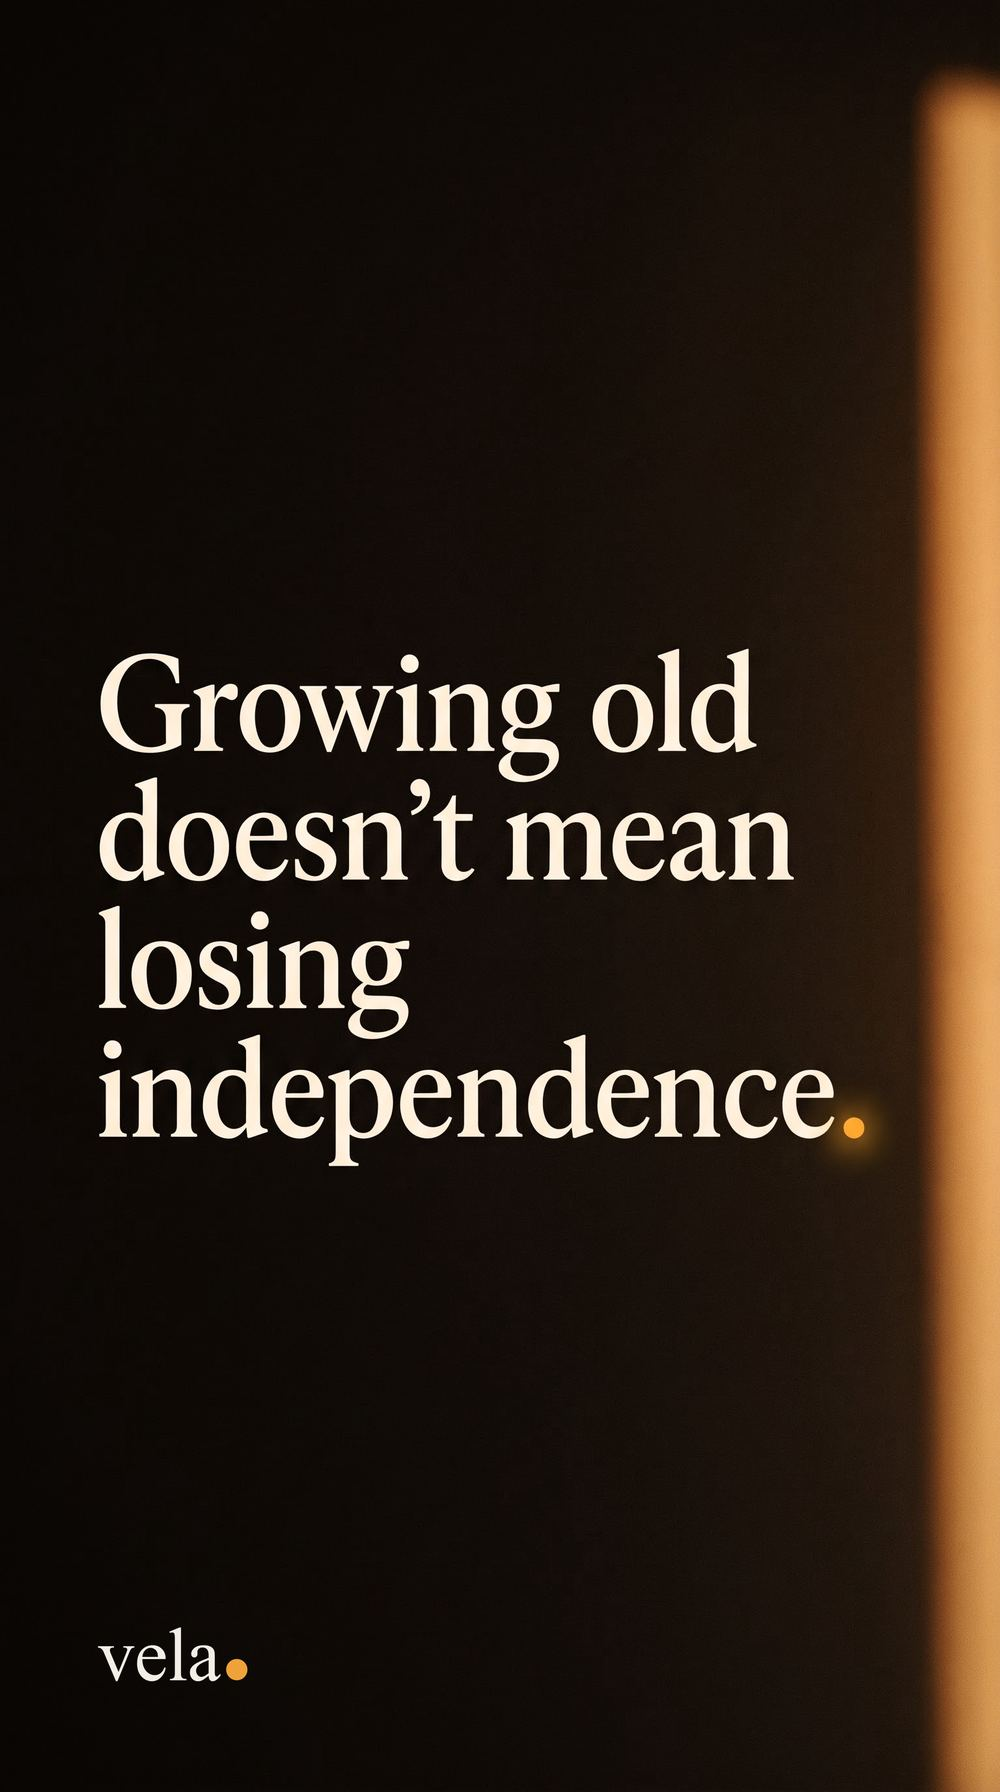
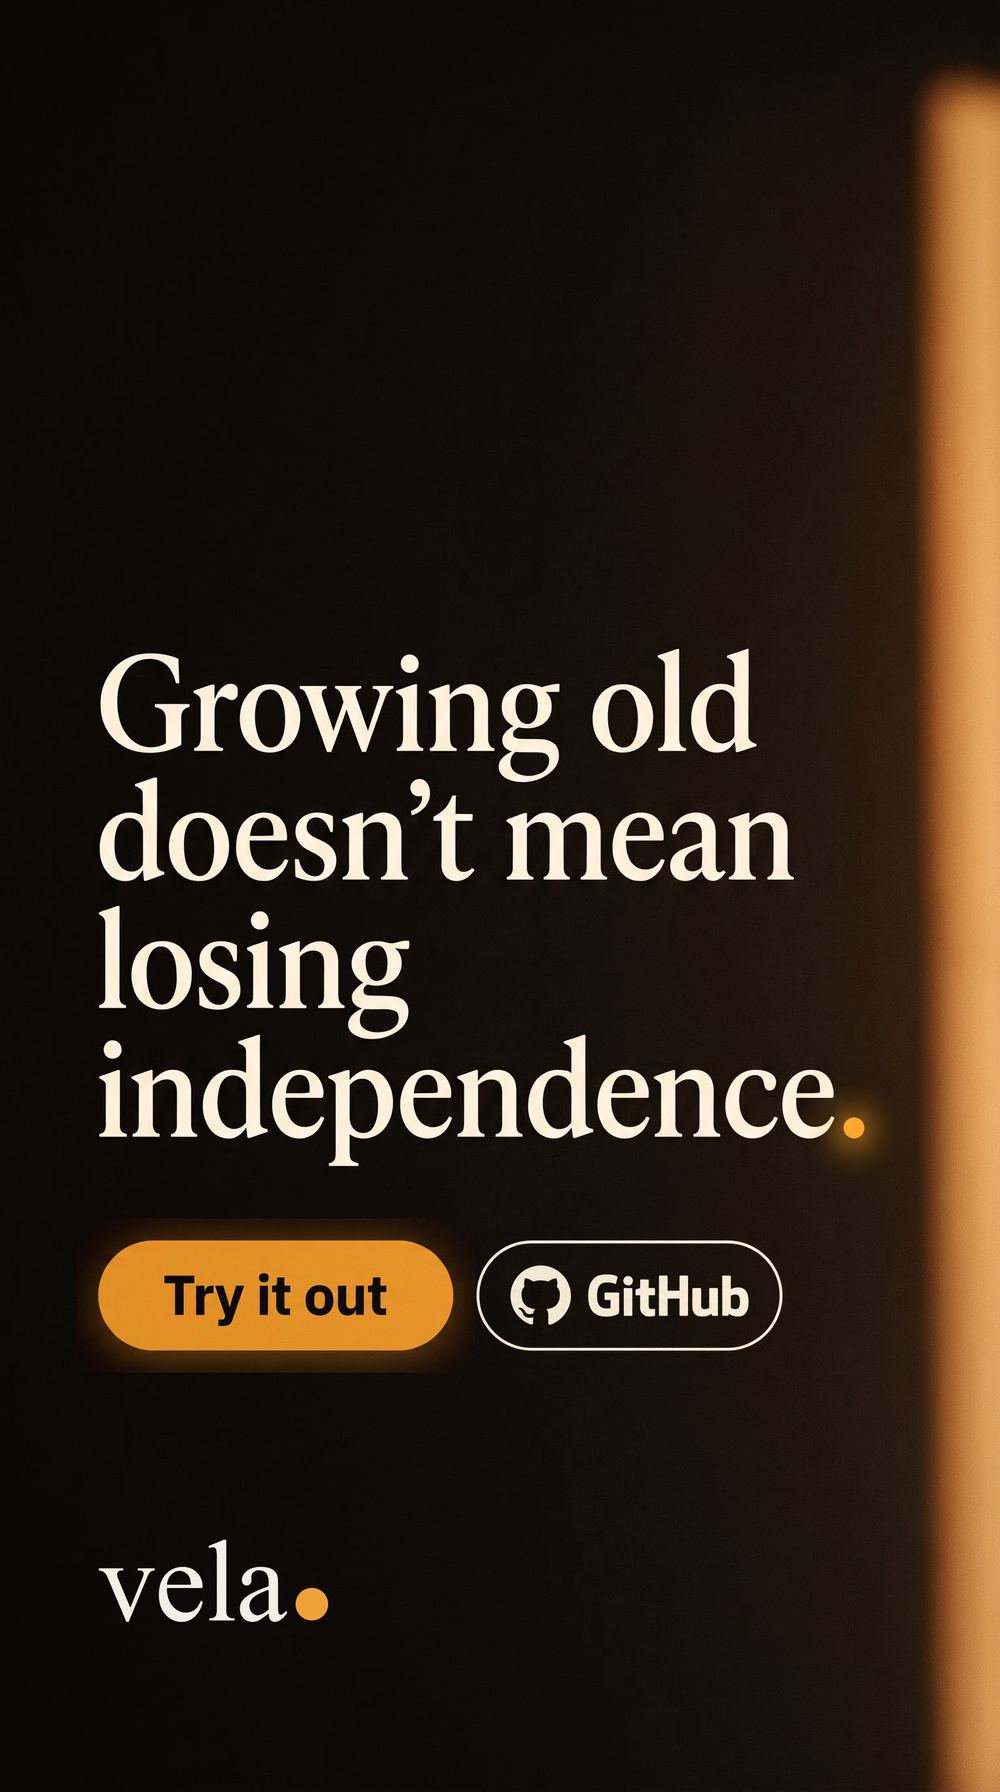
Landing: Revana buttons baked into the hero images, clickable hotspots

Changed region(s): [[0.093, 0.6562, 0.775, 0.7812], [0.093, 0.8438, 0.341, 0.9375]]

diff --git a/landing/style.css b/landing/style.css
@@ -1,6 +1,10 @@
-html,body{margin:0;height:100%;background:#13110F}
-.hero{position:fixed;inset:0;width:100%;height:100%;object-fit:cover;object-position:left center}
-.btn{position:fixed;left:50%;bottom:max(9vh,48px);transform:translateX(-50%);display:inline-flex;align-items:center;min-height:56px;padding:0 34px;border-radius:999px;background:#F0A23A;color:#13110F;font:700 19px/1 "Atkinson Hyperlegible Next",system-ui,sans-serif;text-decoration:none;white-space:nowrap}
-.btn:hover{background:#f5b55a}
-.btn:focus-visible{outline:3px solid #F4EFE6;outline-offset:3px}
-@media (max-aspect-ratio:4/5){.hero{object-position:40% center}.btn{bottom:18vh}}
+html,body{margin:0;height:100%;background:#13110F;overflow:hidden}
+.stage{--r:1.7921;--tx:5.65;--ty:69;--tw:14.51;--th:8.06;--gx:21.36;--gy:69;--gw:12.51;--gh:8.06;--ox:0;
+  position:fixed;top:50%;left:calc((100vw - var(--w)) * var(--ox));--w:max(100vw,calc(100vh * var(--r)));
+  width:var(--w);aspect-ratio:var(--r);transform:translateY(-50%)}
+.stage img{display:block;width:100%;height:100%}
+.hot{position:absolute;border-radius:999px;-webkit-tap-highlight-color:transparent}
+.hot:focus-visible{outline:3px solid #F4EFE6;outline-offset:3px}
+.try{left:calc(var(--tx)*1%);top:calc(var(--ty)*1%);width:calc(var(--tw)*1%);height:calc(var(--th)*1%)}
+.gh{left:calc(var(--gx)*1%);top:calc(var(--gy)*1%);width:calc(var(--gw)*1%);height:calc(var(--gh)*1%)}
+@media (max-aspect-ratio:4/5){.stage{--r:.558;--ox:.4;--tx:9.8;--ty:69.2;--tw:35.47;--th:6.14;--gx:47.67;--gy:69.2;--gw:30.59;--gh:6.14}}

diff --git a/landing/index.html b/landing/index.html
@@ -13,14 +13,16 @@
 <meta name="twitter:card" content="summary_large_image">
 <meta name="theme-color" content="#13110F">
 <link rel="apple-touch-icon" href="apple-touch-icon.png">
-<link rel="stylesheet" href="fonts/fonts.css">
 <link rel="stylesheet" href="style.css">
 </head>
 <body>
-<picture>
-  <source media="(max-aspect-ratio: 4/5)" srcset="hero-mobile.jpg">
-  <img class="hero" src="hero-desktop.jpg" alt="Vela. Growing old doesn’t mean losing independence." fetchpriority="high">
-</picture>
-<a class="btn" href="https://app.meetvela.tech/" rel="noopener">Try it out</a>
+<main class="stage">
+  <picture>
+    <source media="(max-aspect-ratio: 4/5)" srcset="hero-mobile.jpg">
+    <img src="hero-desktop.jpg" alt="Vela. Growing old doesn’t mean losing independence." fetchpriority="high">
+  </picture>
+  <a class="hot try" href="https://app.meetvela.tech/" rel="noopener" aria-label="Try it out"></a>
+  <a class="hot gh" href="https://github.com/DKeAlvaro/vela" rel="noopener" aria-label="GitHub"></a>
+</main>
 </body>
 </html>
